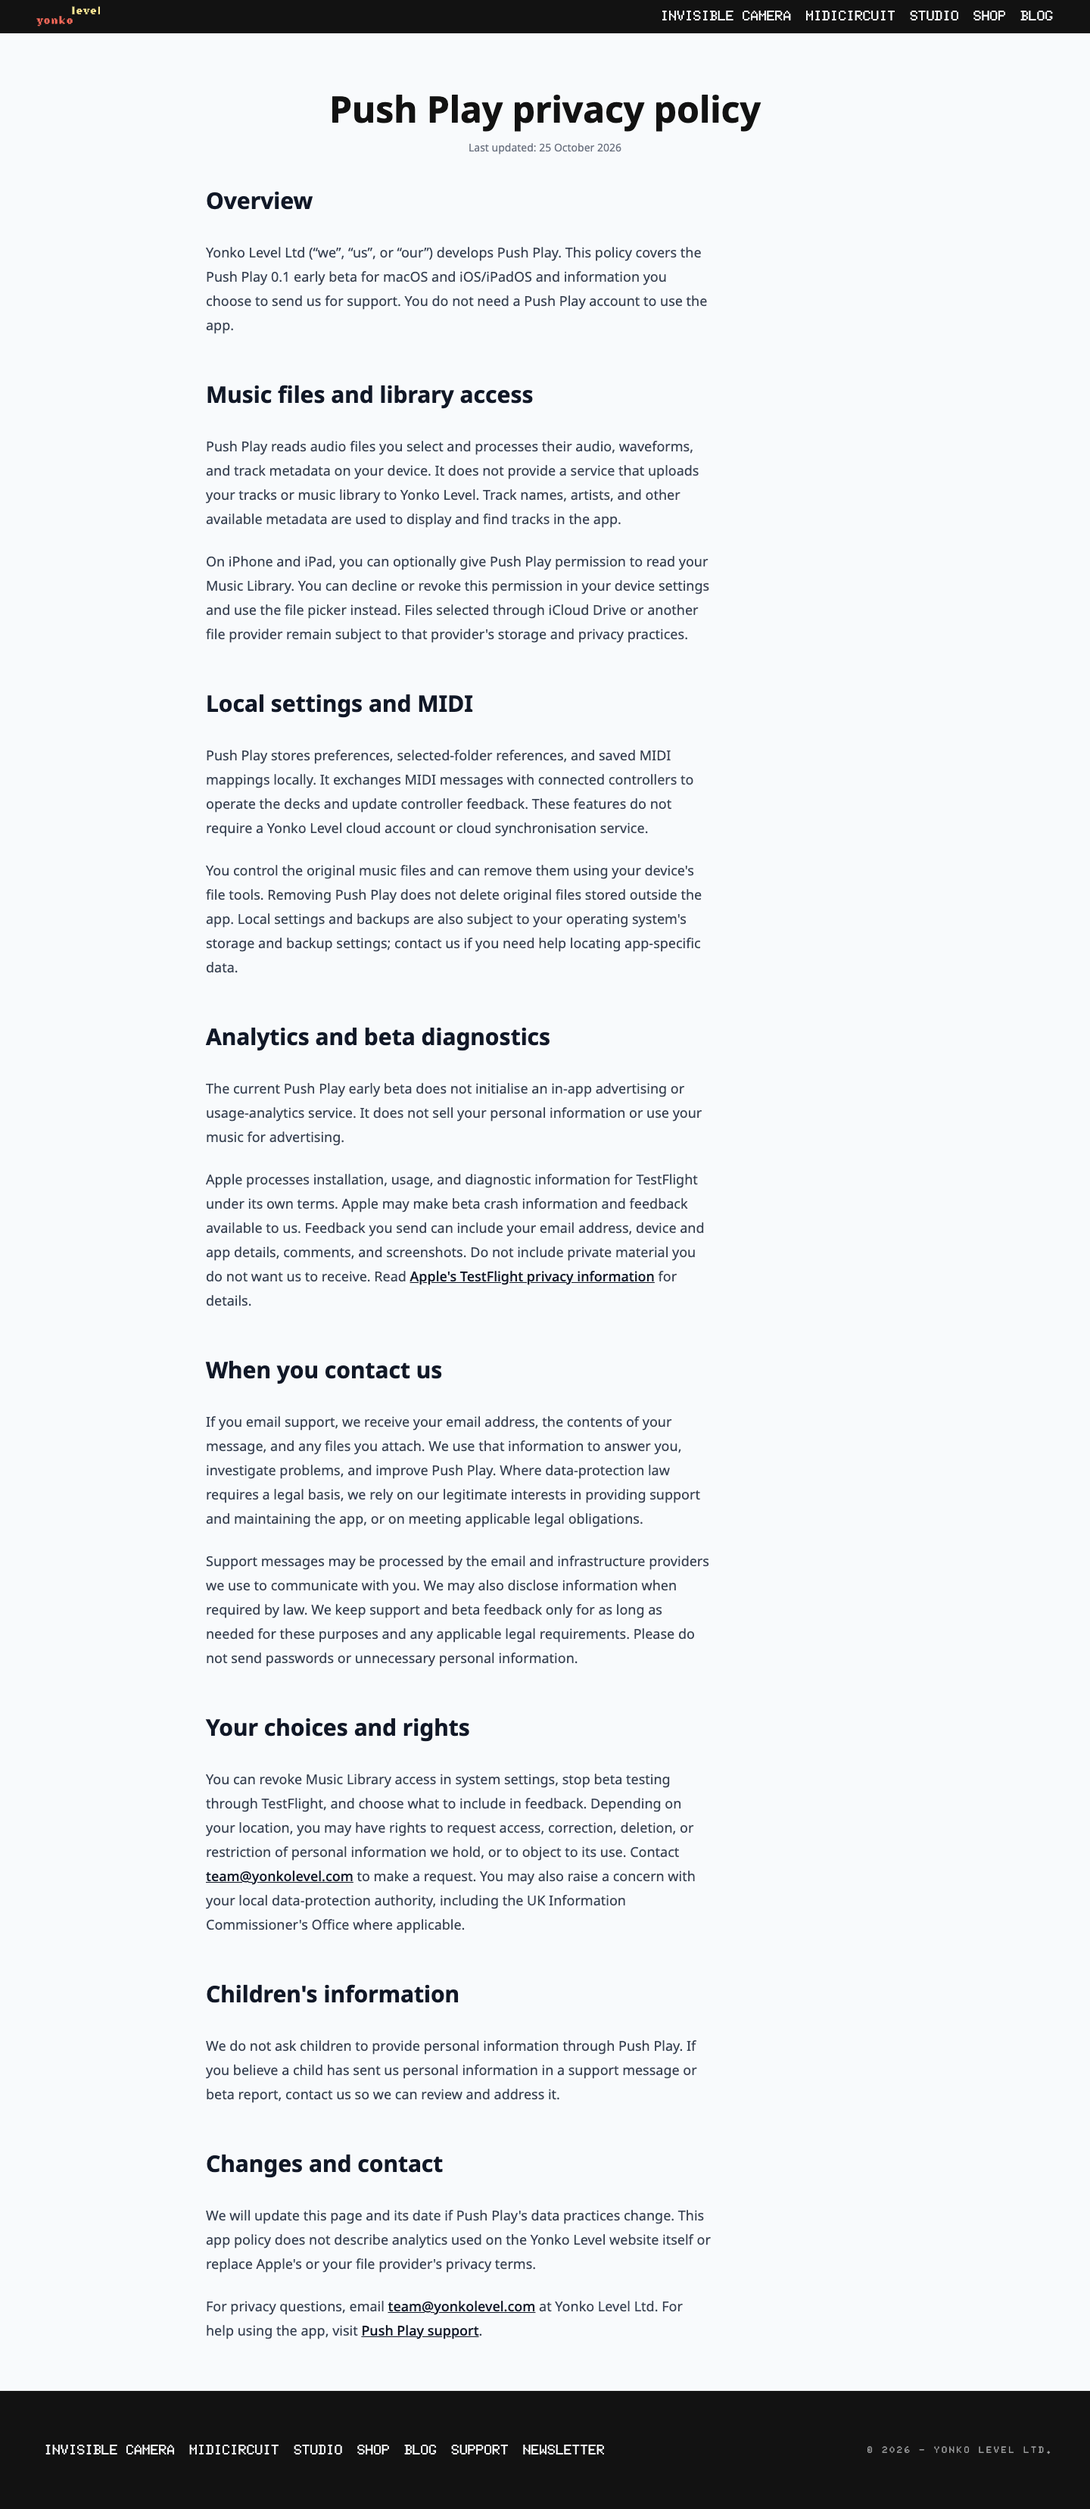
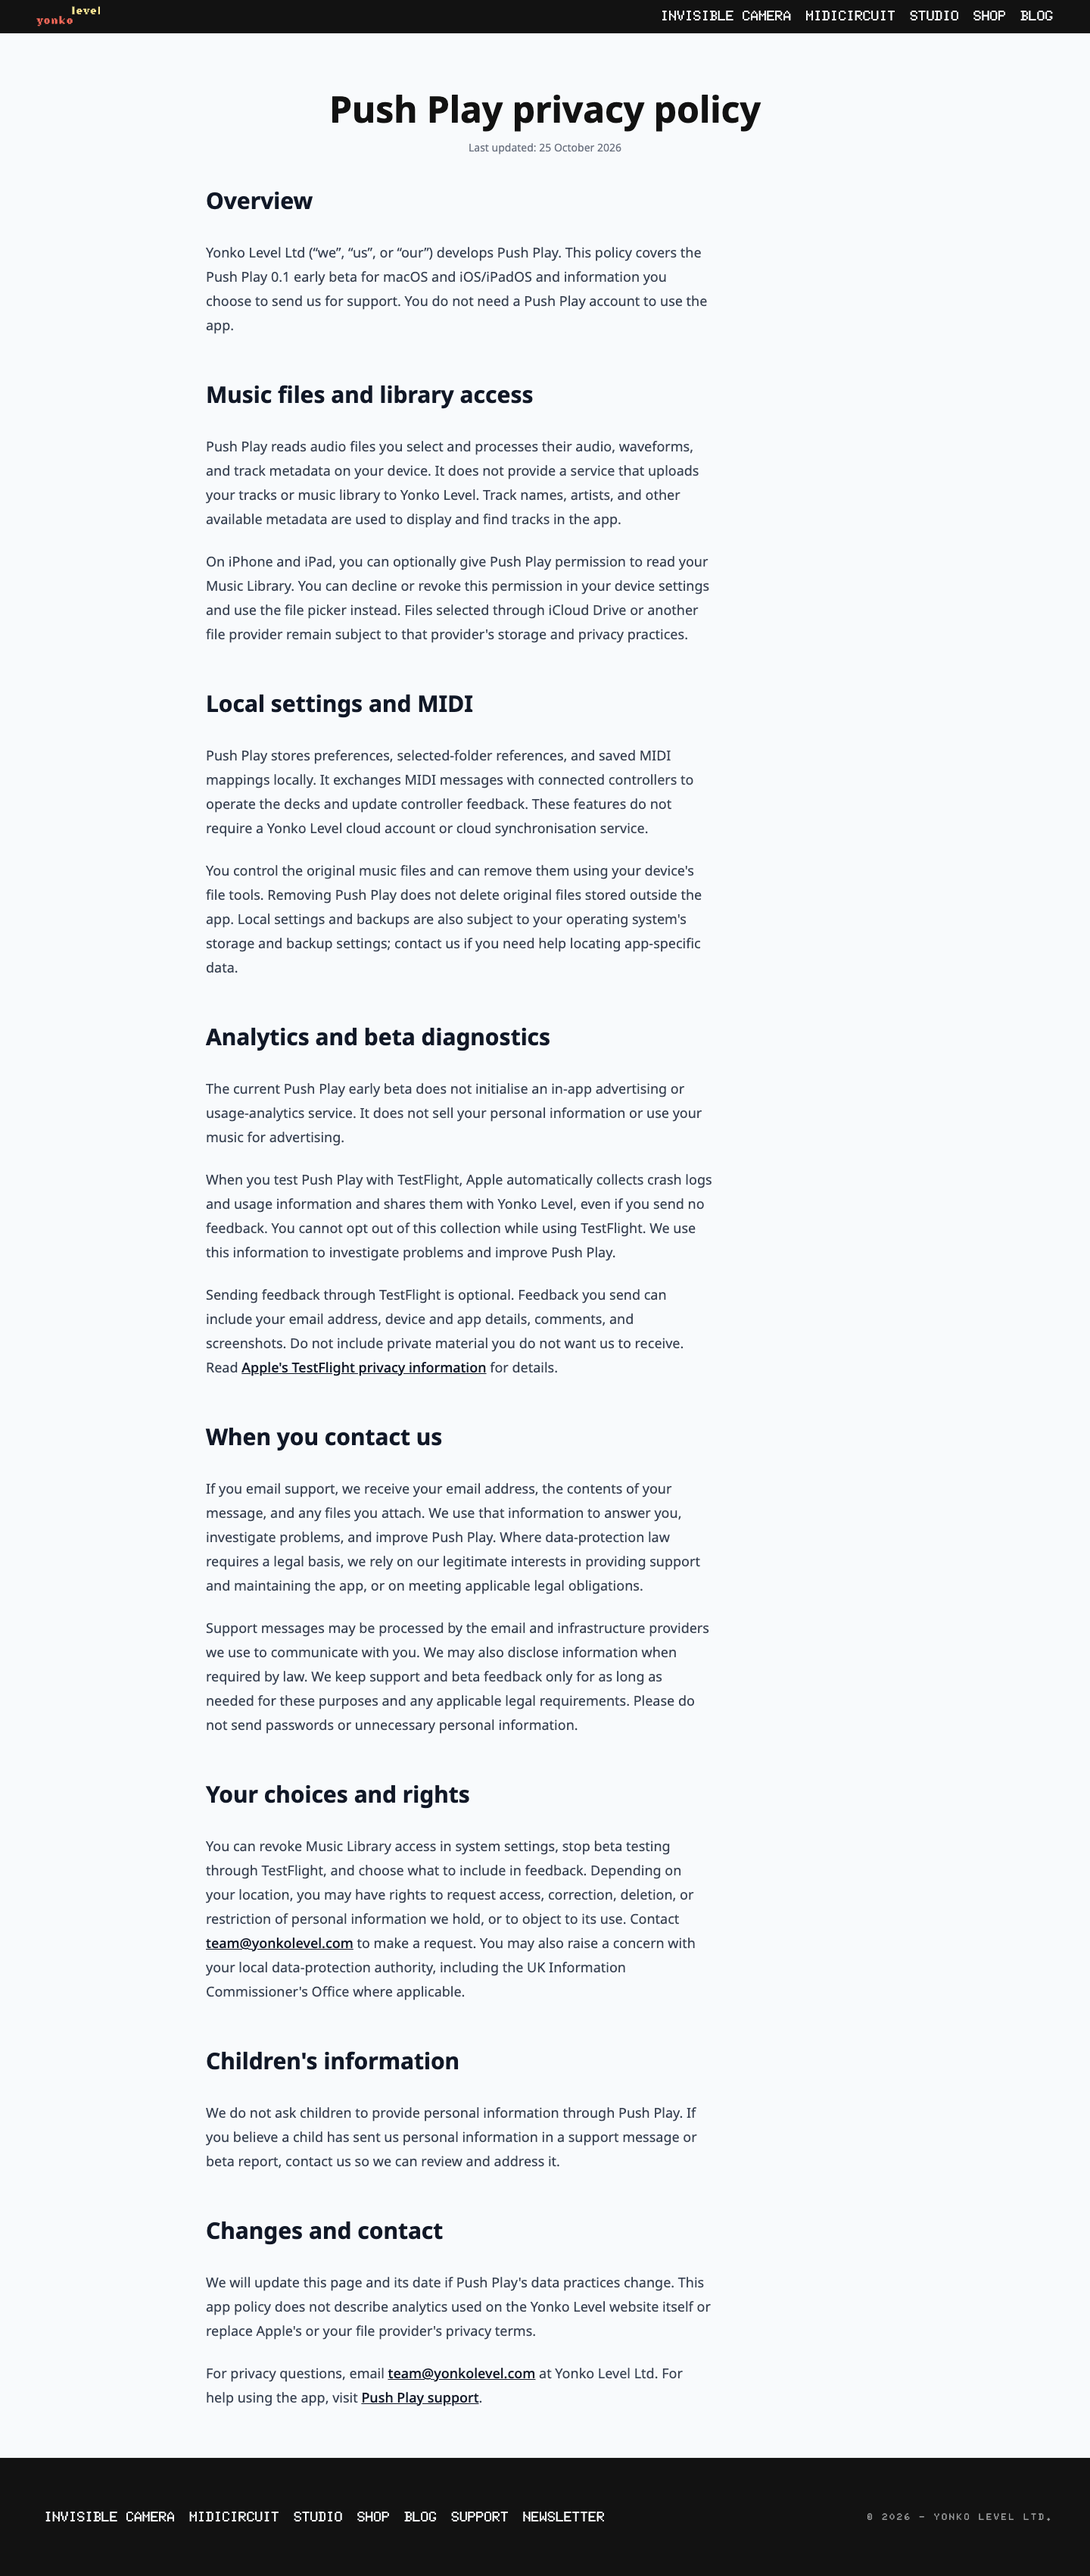
fix(pushplay): disclose automatic TestFlight data sharing
Address the privacy disclosure review on PR #12. Separate automatic crash
and usage data collection from optional tester feedback and refresh the
privacy-page verification screenshots.

diff --git a/src/app/products/pushplay/privacy-policy/page.tsx b/src/app/products/pushplay/privacy-policy/page.tsx
@@ -73,12 +73,17 @@ export default function PushPlayPrivacyPolicyPage() {
               personal information or use your music for advertising.
             </p>
             <p>
-              Apple processes installation, usage, and diagnostic information
-              for TestFlight under its own terms. Apple may make beta crash
-              information and feedback available to us. Feedback you send can
-              include your email address, device and app details, comments, and
-              screenshots. Do not include private material you do not want us
-              to receive. Read{' '}
+              When you test Push Play with TestFlight, Apple automatically
+              collects crash logs and usage information and shares them with
+              Yonko Level, even if you send no feedback. You cannot opt out of
+              this collection while using TestFlight. We use this information
+              to investigate problems and improve Push Play.
+            </p>
+            <p>
+              Sending feedback through TestFlight is optional. Feedback you send
+              can include your email address, device and app details, comments,
+              and screenshots. Do not include private material you do not want
+              us to receive. Read{' '}
               <a href='https://www.apple.com/legal/privacy/data/en/test-flight/'>
                 Apple&apos;s TestFlight privacy information
               </a>{' '}

diff --git a/docs/verification/pushplay/README.md b/docs/verification/pushplay/README.md
@@ -17,6 +17,27 @@ reported runtime errors. No email/payment actions were exercised.
 Code review: skipped (mechanical diff) — brand-string substitutions and refreshed
 verification artifacts only; no application logic or privacy claims changed.
 
+## TestFlight disclosure correction (2026-10-25)
+
+Addressed the PR review finding against Apple's [TestFlight privacy notice](https://www.apple.com/legal/privacy/data/en/test-flight/):
+Apple automatically collects and shares crash logs and usage information with
+Yonko Level, even without feedback. The policy now distinguishes this from
+optional feedback and states that TestFlight collection cannot be opted out of.
+
+Lint, typecheck, and the production webpack build passed again. The updated
+privacy page passed rendered-text, canonical URL, and horizontal-overflow checks
+at 1440×1000 and 390×844. Refreshed both privacy screenshots. Keyboard navigation
+between privacy and support passed; no browser runtime errors were reported.
+The browser driver's point-click did not activate a wrapped inline support
+link, so its keyboard activation was used instead. No email/payment actions
+were exercised. The temporary local environment symlink was removed after the
+build; no credentials or lockfiles changed.
+
+The owner authorized publishing the corrected policy and merging when permitted.
+This records approval, not deployment: confirm the live URLs before adding them
+to App Store Connect. Runtime network and physical-device checks remain outside
+this website-only verification.
+
 ## Checks
 
 - Node 22.19.0.
@@ -59,9 +80,9 @@ feature code. Its DJ mixer uses its own player wrapper, not the shared
 contain PostHog/Firebase components, so this is not a claim that the binary has
 no analytics SDKs, nor a runtime network audit.
 
-Before publication, the owner should confirm support retention/provider
-practices and the final privacy wording. This PR does not submit App Privacy
-answers, change website analytics, or deploy the pages. App Store Connect URLs
+The owner approved publication of the corrected policy on 2026-10-25. This
+verification does not independently audit support retention/provider practices,
+submit App Privacy answers, or change website analytics. App Store Connect URLs
 should be filled only after the reviewed pages are live.
 
 ## Screenshots
